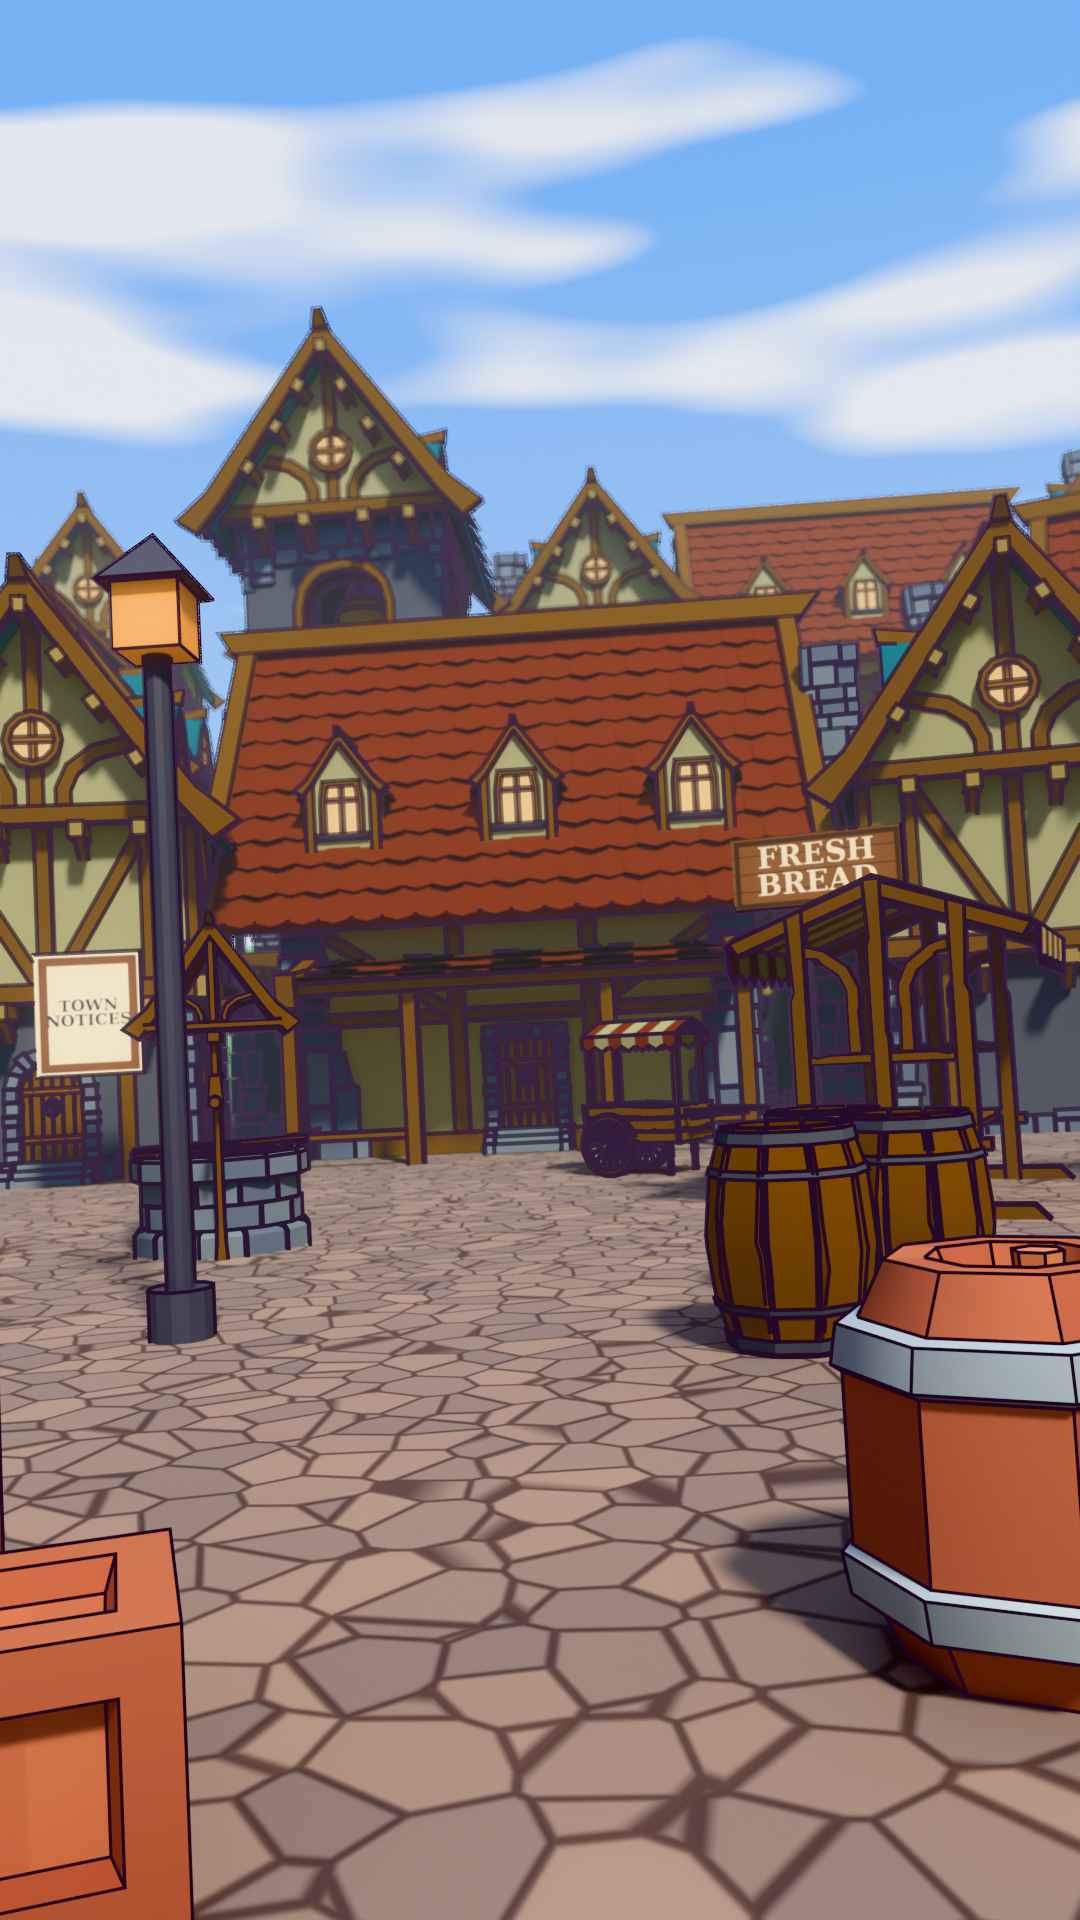
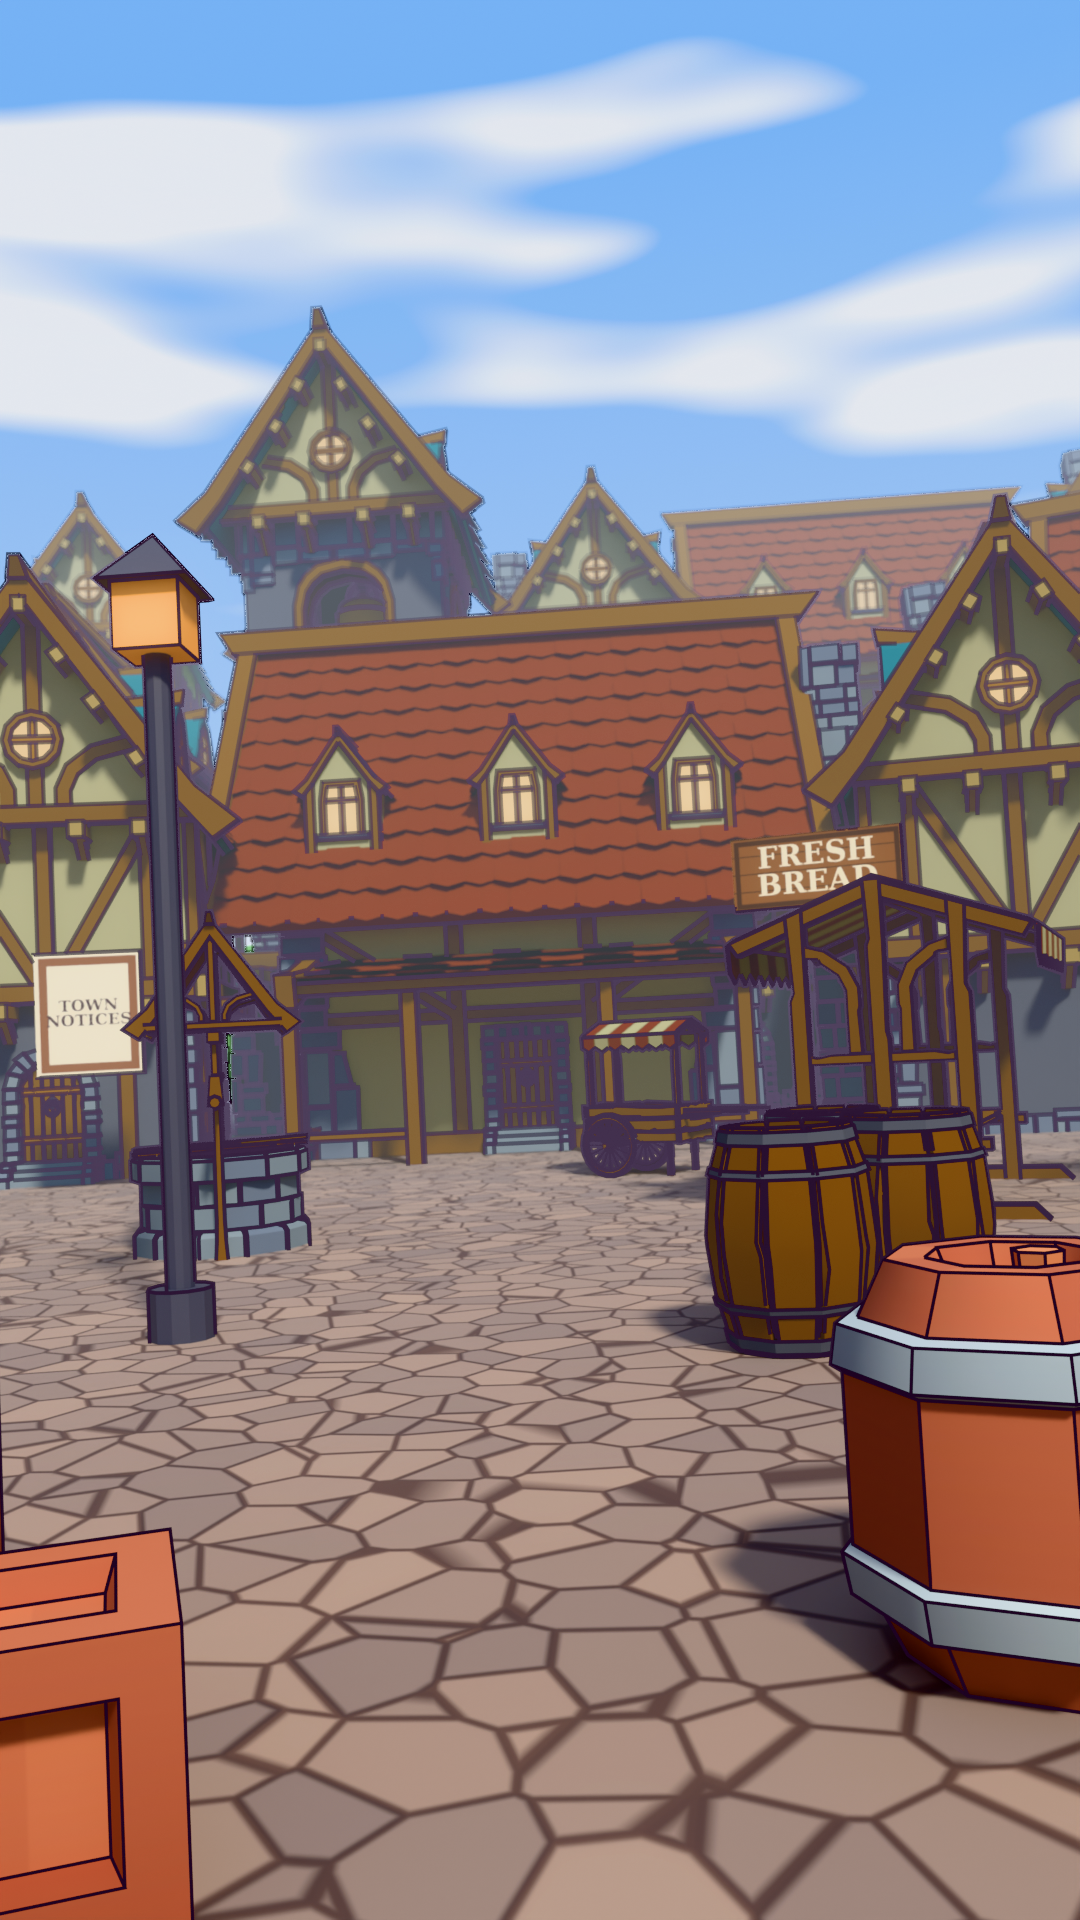
sets: village plates, review round 4 fixes (cool night ground, warm golden, reframes); BACKLOG status
Claude-Session: https://claude.ai/code/session_01CUE844swkk3yewWEQLWYRj

Changed region(s): [[0.0, 0.1562, 1.0, 0.625], [0.0, 0.5625, 0.1222, 0.625]]

diff --git a/BACKLOG.md b/BACKLOG.md
@@ -12,7 +12,7 @@ Take the highest-priority open item in **your area**. Tick it (`[x]`) with the c
 - [ ] P2 When `audio/` produces `words.json`, check that the beat `at_word` indexes still match the spoken words (the punctuation-split rule is in the `shots.json` note).
 
 ## sets (`blender/sets/`)
-- [ ] P1 Refactor `blender/scripts/scene2.py` into `blender/sets/village/build.py`: cams `wide`, `well_close`, `street_low`, and lights `day`, `golden`, `night`, with plates and JSON.
+- [x] P1 Refactor `blender/scripts/scene2.py` into `blender/sets/village/build.py`: cams `wide`, `well_close`, `street_low`, and lights `day`, `golden`, `night`, with plates and JSON. (Plus `square_med` and `street_med`. Review round 3: colour 7, lighting 5, ink 7, depth 6, composition 6, reads 7. Round-4 fixes were rendered, but the round-4 review did not run because of the usage limit. **Next: review the round-4 plates.**)
 - [ ] P1 New set `harbour` (Quaternius ships pack + water + pier): cams `pier_wide`, `deck`, and lights `day`, `storm`, `night`.
 - [ ] P1 New set `road` (a modern street or highway, Quaternius street pack): cams `roadside`, `in_car`, and lights `day`, `golden`.
 - [ ] P2 New set `interior` (a room, Quaternius house interior): cams `room_wide`, `table_close`.
@@ -23,7 +23,7 @@ Take the highest-priority open item in **your area**. Tick it (`[x]`) with the c
 - [ ] P2 Ink density (`frame_stats` edge) stays at 0.01-0.03 in close-ups with DOF; the reference is about 0.05. Consider a second, thicker near-silhouette lineset, or less DOF in close cams.
 - [ ] P3 Parallax plates: a separate foreground layer PNG, so the engine can move it against the background.
 - [x] P1 (for `bike-countersteer`) A NEW `track` set (8ea7e8c; review round 4: colour 7, lighting 6, ink 7, depth 8, composition 6, reads 8): a riding-school track with a pit lane and a grass run-off. Cams: `track_wide`, `track_med`, `track_top` (top-down), `pit_med`, `pit_ots` (over the shoulder), `bike_close`, `bike_chase` (behind the rider), `grips_close`, `rider_close`. Lights: `day` and `golden`. Signs: "BODY-STEERING CHALLENGE" banner, "CORNERS MADE: 0" lap board, and a chalkboard "PUSH LEFT → GO LEFT" with a top-view bar/wheel drawing.
-- [ ] P1 (for `bike-countersteer`) `village`: a `street_med` cam (`day`, `golden`) on a street a bicycle can ride down.
+- [x] P1 (for `bike-countersteer`) `village`: a `street_med` cam (`day`, `golden`) on a street a bicycle can ride down.
 
 ## characters (`characters/`): main cast, bean-head style (owner: wardrobe session, from 2026-11-19)
 - [x] P1 Side view (`view='side'`, facing left/right, spec §2.7) and a 3/4 view. (`turned()` rig; `previews/views_v1.png`; reviewer PASS 8/7/7/8/8)
